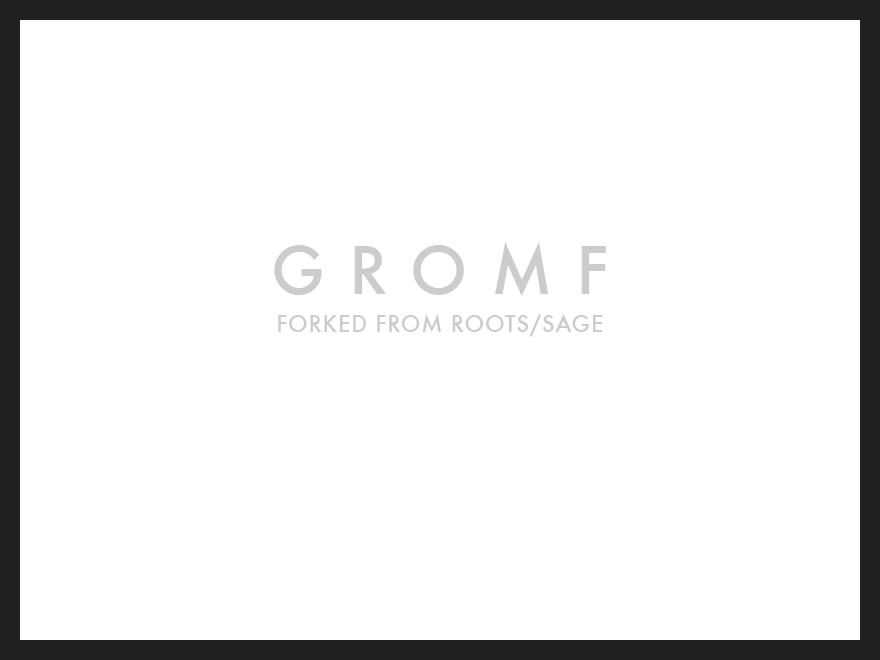
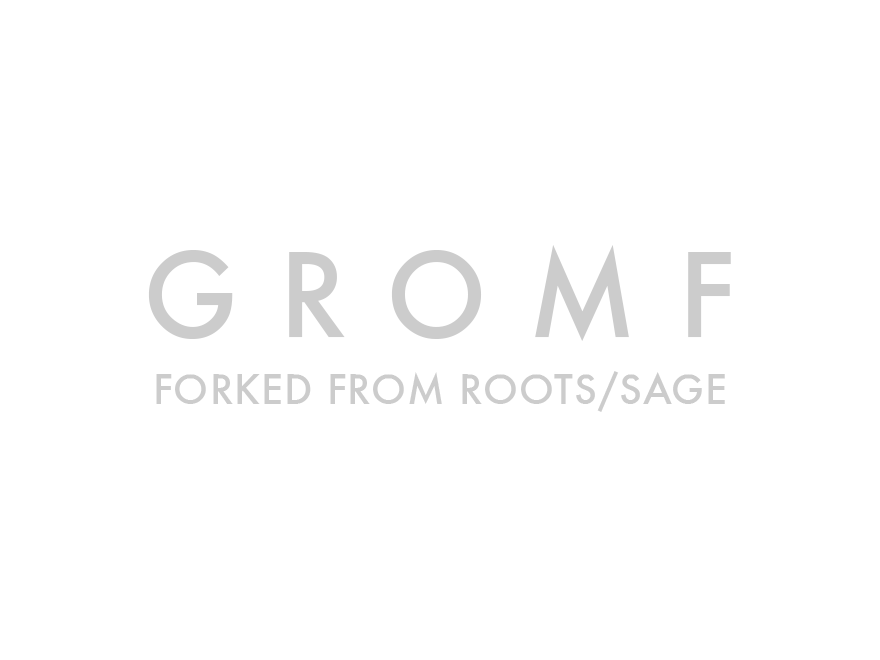
readme updates

diff --git a/README.md b/README.md
@@ -1,3 +1,5 @@
+![Gromf](https://raw.githubusercontent.com/schikulski/gromf/master/screenshot.png)
+
 # Gromf
 [![Build Status](https://travis-ci.org/roots/sage.svg)](https://travis-ci.org/roots/sage)
 [![devDependency Status](https://david-dm.org/roots/sage/dev-status.svg)](https://david-dm.org/roots/sage#info=devDependencies)
